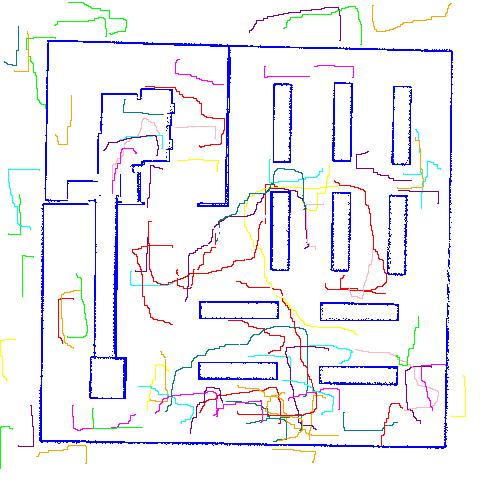
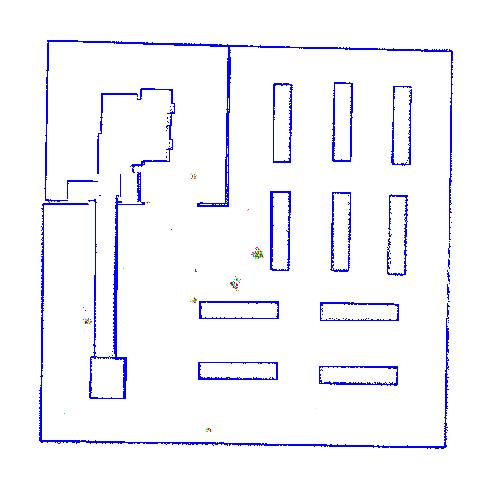
updated mcl with GIF support + replacement sampling

diff --git a/overlay.py b/overlay.py
@@ -5,11 +5,12 @@
 
 import rosbag
 import numpy as np
-import rospy
 from nav_msgs.msg import OccupancyGrid
 from nav_msgs.msg import MapMetaData
 from PIL import Image
 import pandas as pd
+import random
+import time
 
 class Particle():
     def __init__(self, x, y, theta, weight):
@@ -235,13 +236,16 @@ class MonteCarlo():
         self.obstacles = obstacles
         self.width = width
         self.height = height
+        self.gif = []
 
         #Params
-        self.num_particles = 1000
+        self.num_particles = 100000     #atleast 100000 to get a someonewhat accurate result given a large map
 
         #Display Options
         self.showSteps = True          #This will generate a new Image every iteration vs. at the end. Keep image 
         self.start_point_viz = False    #Starting points only
+        self.makeGif = True
+        self.savePhoto = False
 
     def set_particles(self):
         for _ in range(self.num_particles):
@@ -252,18 +256,52 @@ class MonteCarlo():
             self.particles.append(Particle(x, y, theta, weight))
 
     def run_mcl(self):
-        for mag, ang in self.diff_vectors:
-            self.motion_update(mag, ang)
-            self.collision_update()
+        prev_diff = []
+        self.gif = []
+        for i, (mag, ang) in enumerate(self.diff_vectors):
+            prev_diff.append((mag, ang))
+
+            self.particles = self.motion_update(mag, ang, self.particles)
+            self.particles = self.collision_update(self.particles)
+
+            self.resample(self.num_particles - len(self.particles), prev_diff)
 
             if not self.particles : return
             if self.showSteps: self.print_map()
+            print("Progress: " + str((i / len(self.diff_vectors)) * 100) + "%")
 
         self.print_map()
+        if self.makeGif: self.createGif(self.gif)
+
+    def resample(self, sampleSize, prev_diff):
+        
+        if sampleSize <= 0: return
+
+        ###Set Particle
+        particles = []
+        for _ in range(sampleSize):
+            point = random.choice(self.particles)
+
+            x = int(point.x + np.random.uniform(-0.5, 0.5))
+            y = int(point.y + np.random.uniform(-0.5, 0.5))
+            theta = point.theta + np.random.uniform(-np.radians(15), np.radians(15))
+            weight = 1.0 / self.num_particles
+
+            particles.append(Particle(x, y, theta, weight))
+        
+        for mag, ang in prev_diff:
+            particles = self.motion_update(mag, ang, particles)
+            particles = self.collision_update(particles)
+
+        for p in particles:
+            self.particles.append(p)
+
+        self.resample(sampleSize - len(particles), prev_diff)
             
-    def motion_update(self, mag, ang):
-        for i in range(len(self.particles)):
-            p = self.particles[i]
+    def motion_update(self, mag, ang, old_particles):
+        particles = old_particles
+        for i in range(len(particles)):
+            p = particles[i]
             x = p.path[-1][0]
             y = p.path[-1][1]
 
@@ -279,19 +317,21 @@ class MonteCarlo():
             x = x + int(adjusted_mag * np.cos(adjusted_ang))
             y = y + int(adjusted_mag * np.sin(adjusted_ang))
 
-            self.particles[i].path.append((x, y))
+            particles[i].path.append((x, y))
+
+        return particles
         
-    def collision_update(self):
+    def collision_update(self, particles):
         t_particles = []
-        for particle in self.particles:
+        for particle in particles:
             x,y = particle.path[-1]
 
             if 0 <= x < self.width and 0 <= y < self.height \
             and self.obstacles[y, x] == 0:
                 t_particles.append(particle)
 
-        self.particles = t_particles
-        self.num_particles = len(self.particles)
+        return t_particles
+        # self.num_particles = len(particles)
     
     def print_map(self):
         mix = Image.new('RGB', (self.width, self.height), color='white')
@@ -333,13 +373,22 @@ class MonteCarlo():
 
                     if 0 <= x < self.width and 0 <= y < self.height:
                         mix.putpixel((x, y), clr)
-        
-        mix.save('mcl.jpeg')
+
+        if self.makeGif: self.gif.append(mix)
+        if self.savePhoto: mix.save('mcl.jpeg')
+    
+    def createGif(self, frames):
+        frame_one = frames[0]
+        frame_one.save("mcl.gif", format="GIF", append_images=frames,
+               save_all=True, duration=100, loop=0)
+
 
 if __name__ == '__main__':
     map = MapInterpolation()
     mc = MonteCarlo(map.generateVectors(map.mcl_coords), map.binary_array, map.map_width, map.map_height)
+    start_time = time.time()
     mc.set_particles()
     mc.run_mcl()
+    print("--- %s seconds ---" % (time.time() - start_time))
 
     
